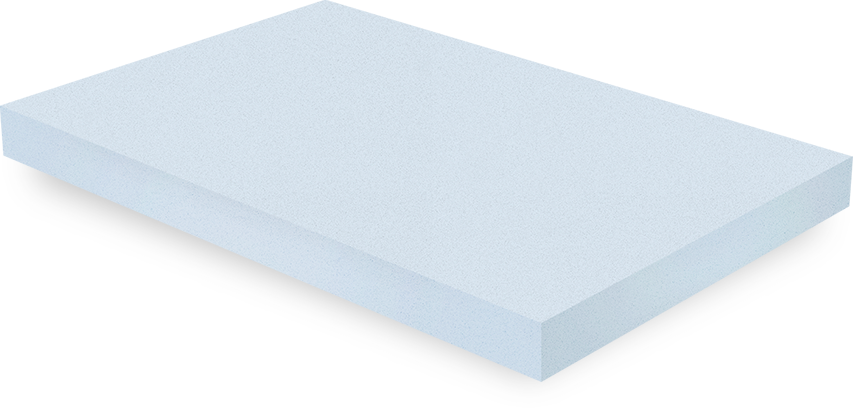
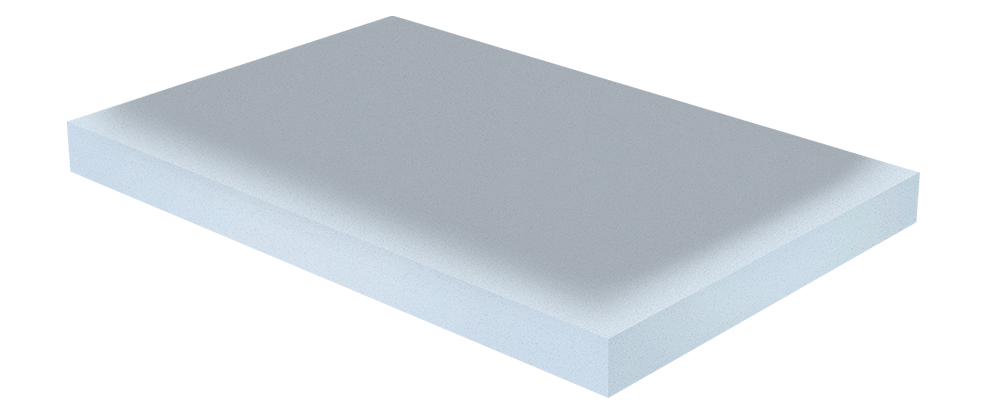
에니메이션 추

diff --git a/index.html b/index.html
@@ -16,7 +16,7 @@
   <!-- <script src="js/slick.min.js"></script> -->
   <script src="js/flickity.pkgd.min.js"></script>
   <script src="js/script.js"></script>
-  <title>sweven1111</title>
+  <title>sweven</title>
 </head>
 <body>
   
@@ -70,35 +70,37 @@
                 <p>PRODUCT</p>
               </h3>
               <div class="product_intro flex_cont">
-                <div class="cont left">
-                  <!-- mattress animation -->                  
-                  <div class="index-animation">
-                    <div id="AnimationContainer" class="animation-container">
-                      <div class="animation-wrap">
-                        <picture id="layer-bottom-fabric"> <img class="lazyautosizes lazyloaded" alt="" src="" data-src="" id="layer-bottom-fabric-img"
-                            data-sizes="auto" sizes="852px">
-                        </picture>
-                        <picture id="layer-panel1"> <img class="lazyautosizes lazyloaded" alt="" src="images/main/grey_sweven.png" data-src="images/main/grey_sweven.png"
-                            id="layer-panel1-img" data-sizes="auto" sizes="852px"> </picture>
-                        <picture id="layer-blue"> <img class="lazyautosizes lazyloaded" alt="" src="images/main/bottom_sweven.png" data-src="images/main/bottom_sweven.png"
-                            id="layer-blue-img" data-sizes="auto" sizes="852px"> </picture>
-                        <picture id="layer-springs"> <img class="lazyautosizes lazyloaded" alt="" src="images/main/supporter.png" data-src="images/main/supporter.png"
-                            id="layer-springs-img" data-sizes="auto" sizes="852px"> </picture>
-                        <picture id="layer-grey"> <img class="lazyautosizes lazyloaded" alt="" src="images/main/memory_foam.png" data-src="imagesmain/main/memory_foam.png"
-                            id="layer-grey-img" data-sizes="auto" sizes="852px"> </picture>
-                        <picture id="layer-bottom-solid"> <img class="lazyautosizes lazyloaded" alt="" src="" data-src="" id="layer-bottom-solid-img"
-                            data-sizes="auto" sizes="852px">
-                        </picture>
-                        <picture id="layer-bottom-transparent"> <img class="lazyautosizes lazyloaded" alt="" src="" data-src="" id="layer-bottom-transparent-img"
-                            data-sizes="auto" sizes="852px">
-                        </picture>
-                        <picture id="layer-top"> <img class="lazyautosizes lazyloaded" alt="" src="images/main/top_sweven.png" data-src="images/main/top_sweven.png"
-                            id="layer-top-img" data-sizes="auto" sizes="852px"> </picture>
-                      </div>
-                    </div>
-                  </div>
-                  <div id="IntersectionTrigger"></div>
-                </div>
+								<div class="cont left">
+									<!-- mattress animation -->
+									<div class="index-animation">
+										<div id="AnimationContainer" class="animation-container">
+											<div class="animation-wrap">
+												<picture id="layer-blue"> <img
+													class="lazyautosizes lazyloaded" alt=""
+													src="images/main/bottom_sweven.png"
+													data-src="images/main/bottom_sweven.png"
+													id="layer-blue-img" data-sizes="auto" sizes="852px">
+												</picture>
+												<picture id="layer-springs"> <img
+													class="lazyautosizes lazyloaded" alt=""
+													src="images/main/supporter.png"
+													data-src="images/supporter.png" id="layer-springs-img"
+													data-sizes="auto" sizes="852px"> </picture>
+												<picture id="layer-grey"> <img
+													class="lazyautosizes lazyloaded" alt=""
+													src="images/main/memory_foam.png"
+													data-src="images/memory_foam.png" id="layer-grey-img"
+													data-sizes="auto" sizes="852px"> </picture>
+												<picture id="layer-top"> <img
+													class="lazyautosizes lazyloaded" alt=""
+													src="images/main/top_sweven.png"
+													data-src="images/main/top_sweven.png" id="layer-top-img"
+													data-sizes="auto" sizes="852px"> </picture>
+											</div>
+										</div>
+									</div>
+									<div id="IntersectionTrigger"></div>
+								</div>
                 <div class="cont right">
                   <ul class="product_infomation">
                     <li class="list flex_cont">

diff --git a/js/animation.js b/js/animation.js
@@ -79,18 +79,10 @@ try {
       easing: 'ease',
     }
 
-    var anim = document.getElementById("layer-bottom-solid").animate(
-      [
-        { transform: 'translate3d(0,-56.8%,0) ' },
-        { transform: 'translate3d(0,0,0) scaleY(1)' }
-      ], options
-    );
-
-    anim.pause();
 
     var grey = document.getElementById("layer-grey").animate(
       [
-        { transform: 'translate3d(0,-5%,0)' },
+        { transform: 'translate3d(0,-7%,0)' },
         { transform: 'translate3d(0,0,0)' }
 
       ], options
@@ -116,32 +108,6 @@ try {
 
     blue.pause();
 
-    var panel = document.getElementById("layer-panel1").animate(
-      [
-        { transform: 'translate3d(0,-20%,0)' },
-        { transform: 'translate3d(0,0,0)' }
-      ], options
-    )
-
-    panel.pause();
-
-    var bottomfabric = document.getElementById("layer-bottom-fabric").animate(
-      [
-        { transform: 'translate3d(0,-56.8%,0) ' },
-        { transform: 'translate3d(0,0,0)' }
-      ], options
-    )
-
-    bottomfabric.pause();
-
-    var bottomtransparent = document.getElementById("layer-bottom-transparent").animate(
-      [
-        { transform: 'translate3d(0,-56.8%,0) ' },
-        { transform: 'translate3d(0,0,0)' }
-      ], options
-    )
-
-    bottomtransparent.pause();
 
   } else {
 
@@ -149,25 +115,7 @@ try {
     var data = [{
       element: document.getElementById("layer-grey"),
       animation: {
-        translateY: -5
-      }
-    },
-    {
-      element: document.getElementById("layer-bottom-solid"),
-      animation: {
-        translateY: -56.8
-      }
-    },
-    {
-      element: document.getElementById("layer-bottom-transparent"),
-      animation: {
-        translateY: -56.8
-      }
-    },
-    {
-      element: document.getElementById("layer-bottom-fabric"),
-      animation: {
-        translateY: -56.8
+        translateY: -7
       }
     },
     {
@@ -178,12 +126,6 @@ try {
     },
     {
       element: document.getElementById("layer-blue"),
-      animation: {
-        translateY: -20
-      }
-    },
-    {
-      element: document.getElementById("layer-panel1"),
       animation: {
         translateY: -20
       }
@@ -225,7 +167,7 @@ try {
     var epsilon = 1.0 / (200.0 * duration);
 
     var t0, t1, t2, x2, d2, i;
-    for (t2 = x, i = 0; i < 8; i++) {
+    for (t2 = x, i = 0; i < 4; i++) {
       x2 = ((ax * t2 + bx) * t2 + cx) * t2 - x; // sample curve x for t2, - x
       if (Math.abs(x2) < epsilon) // obviously, this is determining the accuracy
         return t2;
@@ -304,13 +246,9 @@ try {
 
       if (hasWebAnimations) {
 
-        anim.currentTime = t;
         grey.currentTime = t;
         springs.currentTime = t;
         blue.currentTime = t;
-        panel.currentTime = t;
-        bottomfabric.currentTime = t;
-        bottomtransparent.currentTime = t;
 
       } else {
 

diff --git a/css/animation.css b/css/animation.css
@@ -13,10 +13,14 @@
 .animation-wrap {
   padding-bottom: 64%;
   position: relative;
-  top: -73px;
-  left: -110px;
+
 }
 
+.animation-container {
+    max-width: 852px;
+    margin: 0 auto;
+    width: 100%;
+}
 .animation-wrap:after {
   content: '';
   position: absolute;
@@ -59,7 +63,7 @@
 }
 
 #layer-grey-img {
-  top: 12%;
+  top: 13.2%;
   left: 0;
   display: block;
   position: absolute;
@@ -79,7 +83,7 @@
 }
 
 #layer-springs-img {
-  top: 29%;
+  top: 25.2%;
   left: 0;
   display: block;
   position: absolute;
@@ -99,7 +103,7 @@
 }
 
 #layer-blue-img {
-  top: 35.7%;
+  top: 35.3%;
   left: 0;
   display: block;
   position: absolute;
@@ -205,9 +209,9 @@
   position: absolute;
   width: 4px;
   pointer-events: none;
-  top: 87%;
+  top: 155%;
   height: 648px;
   height: 40vh;
-  height: 426px;
+  height: 900px;
 }
 
